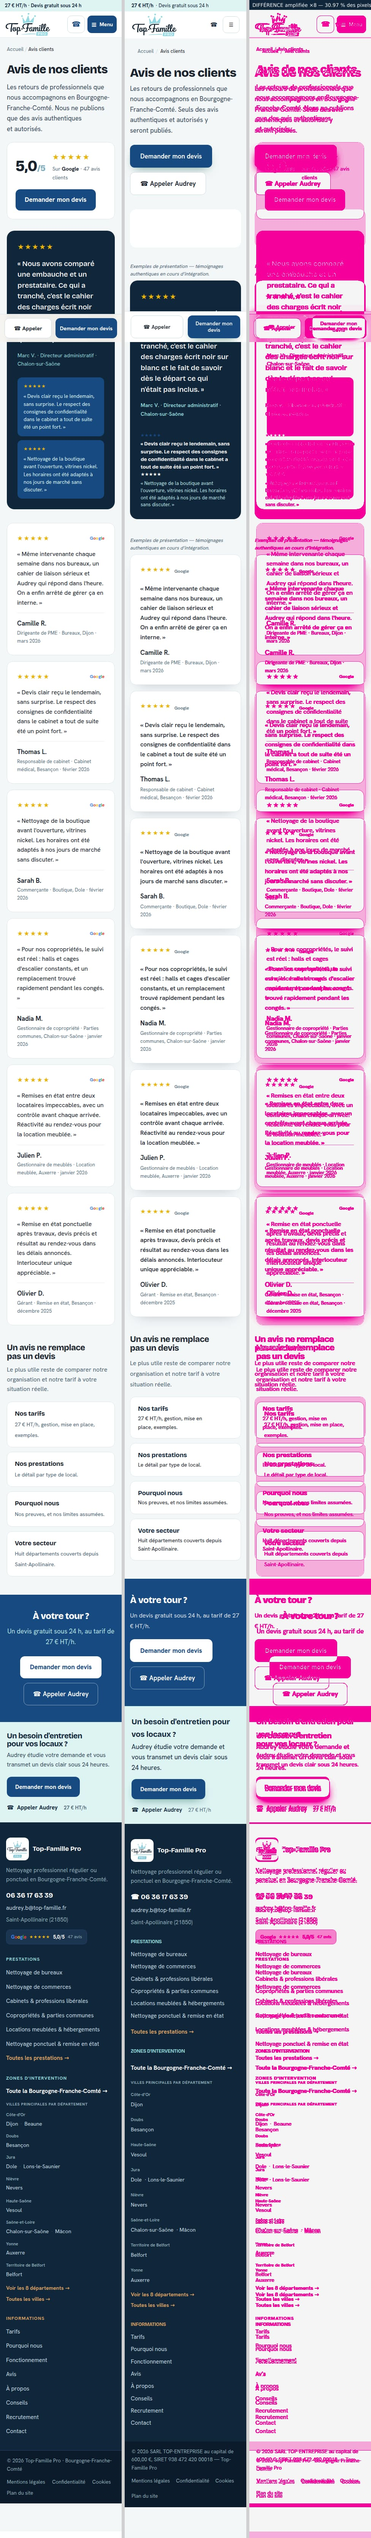
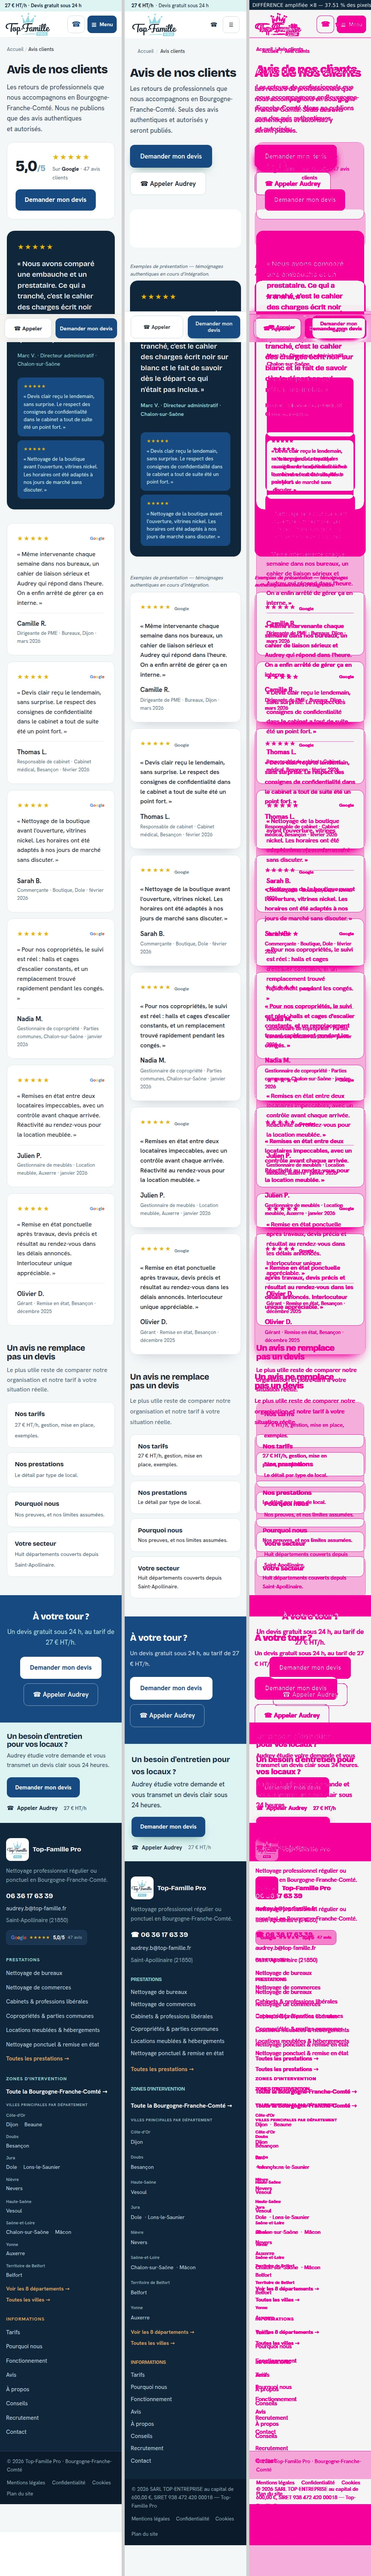
G27, 18/N — suite verte à 1 253, quatorze planches régénérées
Suite Playwright complète : 1 253 passés, 0 échec, sur le relevé courant.

Les quatorze planches ciblées sont régénérées. Celle d'/avis-clients/ à 320 px
raconte les deux corrections l'une après l'autre :

  38,4 %  avant la carte marine
  31,0 %  panneau posé — la bande se superposait enfin
  37,5 %  après la séparation des deux tuiles

La dernière hausse n'est pas une régression. À 320 px les colonnes s'empilent,
deux tuiles fidèles sont plus hautes qu'une carte aplatie, et tout ce qui suit se
décale — un décalage vertical colorie l'intégralité de la colonne. La mesure qui
conclut reste la géométrie de la bande : panneau 725 px contre 733, tuiles 155 px
contre 155.

Claude-Session: https://claude.ai/code/session_01YVZ3tpxhzpBoCYonZ1Vz1U

Changed region(s): [[0.0, 0.0, 1.0, 1.0], [0.4918, 0.9656, 0.5225, 0.9967]]

diff --git a/docs/CAPTURES-CIBLEES.md b/docs/CAPTURES-CIBLEES.md
@@ -23,7 +23,7 @@
 | Formulaire de devis — étape 2 | 375 px | 47.01 % (×8) | identique (1 bande) | `docs/captures/ciblees/formulaire-etape2-375.jpg` |
 | Formulaire de devis — étape 2 | 1440 px | 50.02 % (×8) | identique (1 bande) | `docs/captures/ciblees/formulaire-etape2-1440.jpg` |
 | Pourquoi Top-Famille Pro | 375 px | 46.37 % (×8) | identique (6 bandes) | `docs/captures/ciblees/pourquoi-375.jpg` |
-| Avis clients | 320 px | 30.97 % (×8) | identique (3 bandes) | `docs/captures/ciblees/avis-320.jpg` |
+| Avis clients | 320 px | 37.51 % (×8) | identique (3 bandes) | `docs/captures/ciblees/avis-320.jpg` |
 | Page région Bourgogne-Franche-Comté | 1440 px | 36.55 % (×8) | identique (16 bandes) | `docs/captures/ciblees/region-1440.jpg` |
 
 ---
